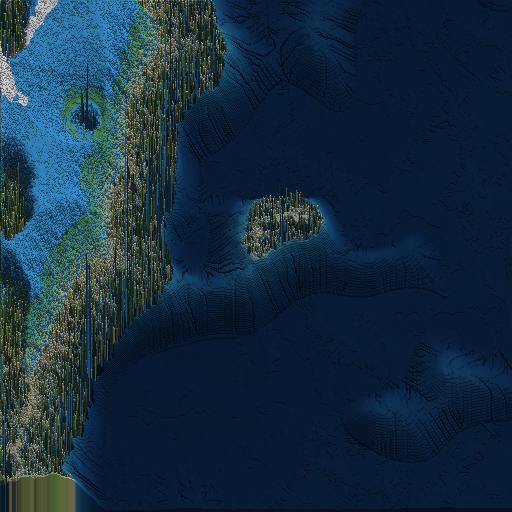
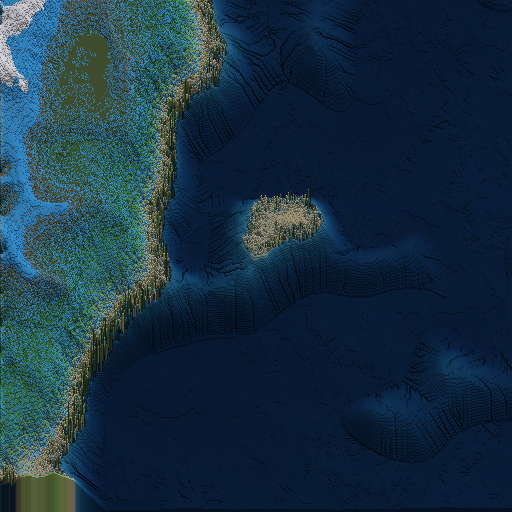
Balance hydraulic erosion parameters to avoid over-erosion
Previous settings (500 lifetime, 200k droplets) caused deep holes.
New balanced values:
- dropletsPerStep: 200k → 100k
- maxDropletLifetime: 500 → 64 (safety cap, most end at sea/lake)
- erodeSpeed: 0.3 → 0.2 (gentler)
- evaporateSpeed: 0.001 → 0.02 (moderate decay)

Physical termination conditions retained (sea level, lakes, pits).

Changed region(s): [[0.0, 0.0, 0.4375, 1.0], [0.4688, 0.375, 0.6562, 0.5]]

diff --git a/src/simulation/HydraulicErosion.hpp b/src/simulation/HydraulicErosion.hpp
@@ -11,21 +11,21 @@
 namespace worldgen {
 
 struct HydraulicParams {
-    int dropletsPerStep = 200000;
-    int maxDropletLifetime = 500;   // Much longer - droplets run until reaching water
+    int dropletsPerStep = 100000;
+    int maxDropletLifetime = 64;    // Safety cap - most terminate at sea/lake before this
     float inertia = 0.05f;
     float sedimentCapacity = 4.0f;
     float minSedimentCapacity = 0.01f;
     float depositSpeed = 0.3f;
-    float erodeSpeed = 0.3f;
-    float evaporateSpeed = 0.001f;  // Very slow evaporation - droplets mostly end at sea/lake
+    float erodeSpeed = 0.2f;        // Gentler erosion to avoid holes
+    float evaporateSpeed = 0.02f;   // Moderate evaporation
     float gravity = 4.0f;
     int erosionRadius = 3;
     float initialWater = 1.0f;
     float initialSpeed = 1.0f;
     int parallelChunks = 4;  // Grid partitioning for parallel simulation
 
-    // Termination conditions
+    // Termination conditions - droplets end at water bodies
     float seaLevel = 0.32f;         // Droplets stop when reaching sea level
     float minWaterForTermination = 0.01f;  // Minimum water depth to consider as lake
 };
